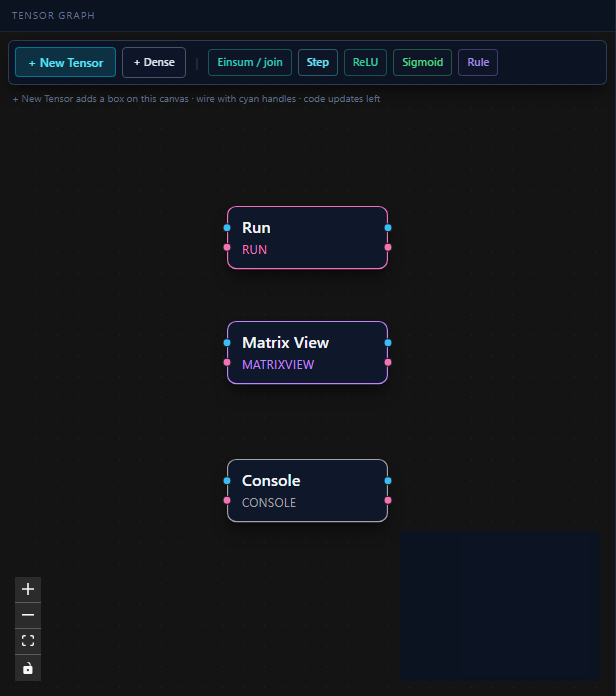
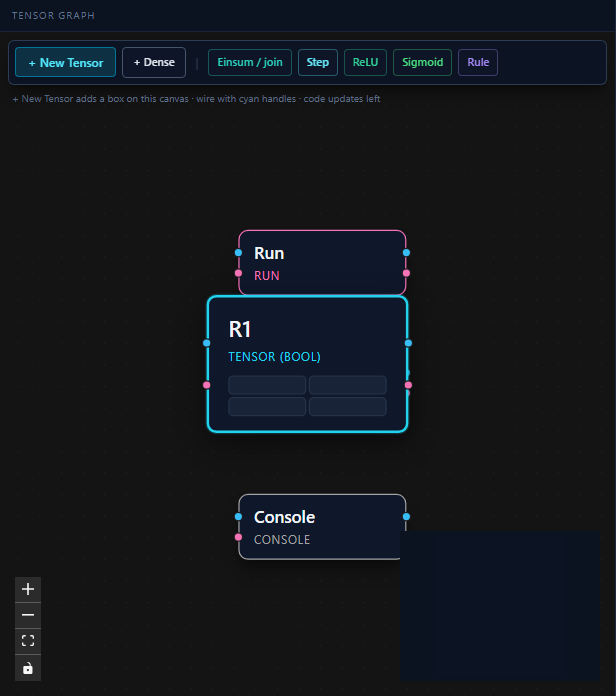
Make + New Tensor box actually visible in the graph viewport.
Fix React Flow visibility:hidden, place new boxes at viewport center via
screenToFlowPosition, and capture Playwright proof screenshots of R1.

Changed region(s): [[0.3084, 0.3017, 0.6786, 0.6336], [0.3393, 0.6638, 0.6786, 0.7845]]

diff --git a/src/graph/rfApi.ts b/src/graph/rfApi.ts
@@ -1,0 +1,51 @@
+import type { ReactFlowInstance } from '@xyflow/react'
+
+let instance: ReactFlowInstance | null = null
+
+export function setReactFlowInstance(rf: ReactFlowInstance | null): void {
+  instance = rf
+}
+
+export function getReactFlowInstance(): ReactFlowInstance | null {
+  return instance
+}
+
+/** Move a node into the visible center of the graph pane and zoom to it. */
+export function revealNodeInView(nodeId: string): void {
+  const rf = instance
+  if (!rf) return
+
+  const pane = document.querySelector('.react-flow') as HTMLElement | null
+  if (pane) {
+    const rect = pane.getBoundingClientRect()
+    const flowPos = rf.screenToFlowPosition({
+      x: rect.left + rect.width * 0.5,
+      y: rect.top + rect.height * 0.45,
+    })
+    rf.setNodes((nodes) =>
+      nodes.map((n) =>
+        n.id === nodeId
+          ? {
+              ...n,
+              position: { x: flowPos.x - 90, y: flowPos.y - 50 },
+              style: { ...n.style, visibility: 'visible', opacity: 1 },
+            }
+          : n,
+      ),
+    )
+  }
+
+  // Multiple attempts: measure may lag one frame
+  const focus = () => {
+    rf.fitView({
+      nodes: [{ id: nodeId }],
+      padding: 0.5,
+      duration: 200,
+      maxZoom: 1.2,
+      minZoom: 0.5,
+    })
+  }
+  focus()
+  window.setTimeout(focus, 100)
+  window.setTimeout(focus, 300)
+}

diff --git a/src/graph/GraphCanvas.tsx b/src/graph/GraphCanvas.tsx
@@ -25,6 +25,7 @@ import { pushGraphToSource } from '@/editor/pushGraphToSource'
 import { edgeTypes } from './edgeTypes'
 import { TLNode, kindColor, type TLNodeData } from './nodes/TLNode'
 import { Palette } from './Palette'
+import { setReactFlowInstance } from './rfApi'
 
 /** Logical event-out port for a node kind (Visual Café). */
 function defaultEventOutPort(kind?: NodeKind): string {
@@ -127,45 +128,30 @@ function FitViewOnLoad() {
   const nodeSig = useProjectStore((s) =>
     s.project.graph.nodes.map((n) => n.id).join(','),
   )
-  const { fitView, setCenter, getNode } = useReactFlow()
+  const rf = useReactFlow()
+  const { fitView } = rf
   const nodesInitialized = useNodesInitialized()
 
   useEffect(() => {
+    setReactFlowInstance(rf)
+    return () => setReactFlowInstance(null)
+  }, [rf])
+
+  useEffect(() => {
     if (nodeCount === 0 || !nodesInitialized) return
+    // Don't auto-fit when focusing a brand-new tensor — revealNodeInView handles that
+    if (focusNodeId) return
     const t = window.setTimeout(() => {
       fitView({ padding: 0.3, duration: 200, maxZoom: 1.2 })
     }, 60)
     return () => window.clearTimeout(t)
-  }, [projectId, exampleId, nodeCount, nodeSig, fitView, nodesInitialized])
+  }, [projectId, exampleId, nodeCount, nodeSig, fitView, nodesInitialized, focusNodeId])
 
   useEffect(() => {
-    if (!focusNodeId || !nodesInitialized) return
-    const id = focusNodeId
-    const run = () => {
-      const n = getNode(id)
-      if (n) {
-        fitView({
-          nodes: [{ id }],
-          padding: 0.5,
-          duration: 200,
-          maxZoom: 1.2,
-          minZoom: 0.5,
-        })
-        const w = n.measured?.width ?? 170
-        const h = n.measured?.height ?? 100
-        setCenter(n.position.x + w / 2, n.position.y + h / 2, {
-          zoom: 1,
-          duration: 200,
-        })
-      }
-    }
-    const timers = [50, 200, 400].map((ms) => window.setTimeout(run, ms))
-    const clear = window.setTimeout(() => setFocusNodeId(null), 500)
-    return () => {
-      timers.forEach((t) => window.clearTimeout(t))
-      window.clearTimeout(clear)
-    }
-  }, [focusNodeId, getNode, setCenter, fitView, setFocusNodeId, nodeSig, nodesInitialized])
+    if (!focusNodeId) return
+    const clear = window.setTimeout(() => setFocusNodeId(null), 800)
+    return () => window.clearTimeout(clear)
+  }, [focusNodeId, setFocusNodeId])
 
   return null
 }

diff --git a/src/graph/addTensor.ts b/src/graph/addTensor.ts
@@ -2,10 +2,23 @@ import { nextTensorLabel } from '@/editor/graphToSource'
 import { pushGraphToSource } from '@/editor/pushGraphToSource'
 import { useProjectStore } from '@/store/projectStore'
 import type { GraphNode } from '@/types/project'
+import { getReactFlowInstance, revealNodeInView } from './rfApi'
 
 function placeOffset(nodes: GraphNode[]): { x: number; y: number } {
-  // Keep new boxes in a predictable band near the default fitView origin
-  // so they are not lost off-camera after genealogy/example layouts.
+  const rf = getReactFlowInstance()
+  if (rf) {
+    const pane = document.querySelector('.react-flow') as HTMLElement | null
+    if (pane) {
+      const rect = pane.getBoundingClientRect()
+      const tensors = nodes.filter((n) => n.kind === 'relation' || n.kind === 'tensor')
+      const i = tensors.length
+      const flowPos = rf.screenToFlowPosition({
+        x: rect.left + rect.width * (0.35 + (i % 3) * 0.12),
+        y: rect.top + rect.height * (0.4 + Math.floor(i / 3) * 0.12),
+      })
+      return { x: flowPos.x - 90, y: flowPos.y - 50 }
+    }
+  }
   const tensors = nodes.filter((n) => n.kind === 'relation' || n.kind === 'tensor')
   const i = tensors.length
   return {
@@ -46,8 +59,26 @@ export function addTensorBox(kind: 'relation' | 'tensor' = 'relation'): string {
   s.openSpreadsheet(label, kind === 'relation' ? 'bool' : 'dense')
   useProjectStore.setState({
     skipNextSourceToGraph: true,
-    graphLockUntil: Date.now() + 2000,
+    graphLockUntil: Date.now() + 2500,
     focusNodeId: id,
+  })
+
+  // Bring the box into the visible center of Tensor Graph (critical UX)
+  requestAnimationFrame(() => {
+    revealNodeInView(id)
+    // Keep store position in sync with RF instance after reveal
+    window.setTimeout(() => {
+      const rf = getReactFlowInstance()
+      const rfNode = rf?.getNode(id)
+      if (!rfNode) return
+      const cur = useProjectStore.getState()
+      cur.setGraph(
+        cur.project.graph.nodes.map((n) =>
+          n.id === id ? { ...n, position: { ...rfNode.position } } : n,
+        ),
+        cur.project.graph.edges,
+      )
+    }, 120)
   })
 
   // Sync code after store has the new node
@@ -57,12 +88,12 @@ export function addTensorBox(kind: 'relation' | 'tensor' = 'relation'): string {
         ? `New tensor box ${label} (Boolean) added to graph`
         : `New tensor box ${label} (dense) added to graph`,
     )
-    // Re-assert node still present after source push
     const cur = useProjectStore.getState()
     if (!cur.project.graph.nodes.some((n) => n.id === id)) {
       cur.setGraph([...cur.project.graph.nodes, node], cur.project.graph.edges)
-      useProjectStore.setState({ focusNodeId: id, graphLockUntil: Date.now() + 1500 })
     }
+    window.setTimeout(() => revealNodeInView(id), 50)
+    window.setTimeout(() => revealNodeInView(id), 250)
   })
 
   s.setStatus(`Created tensor ${label}`)